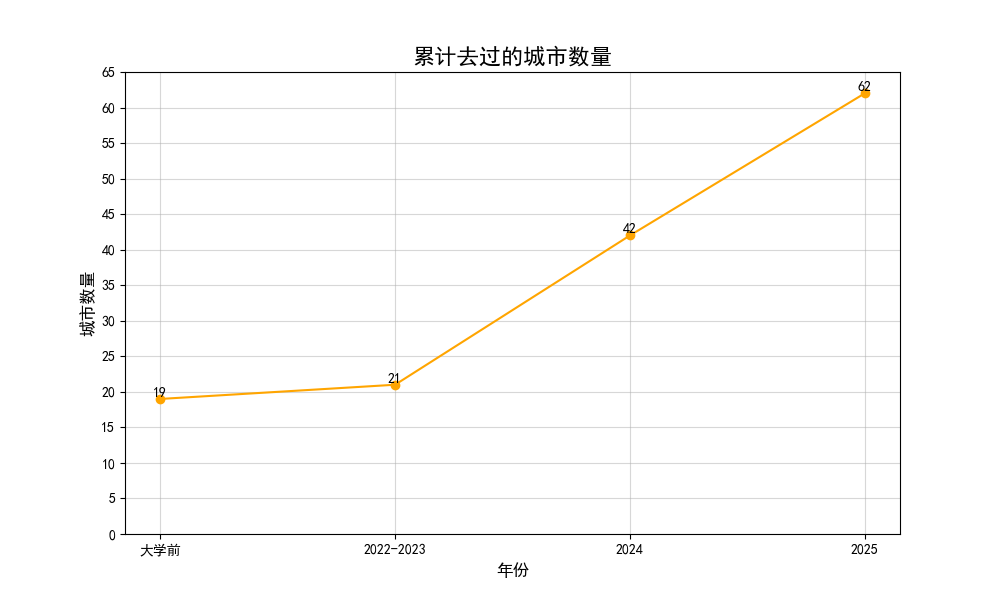
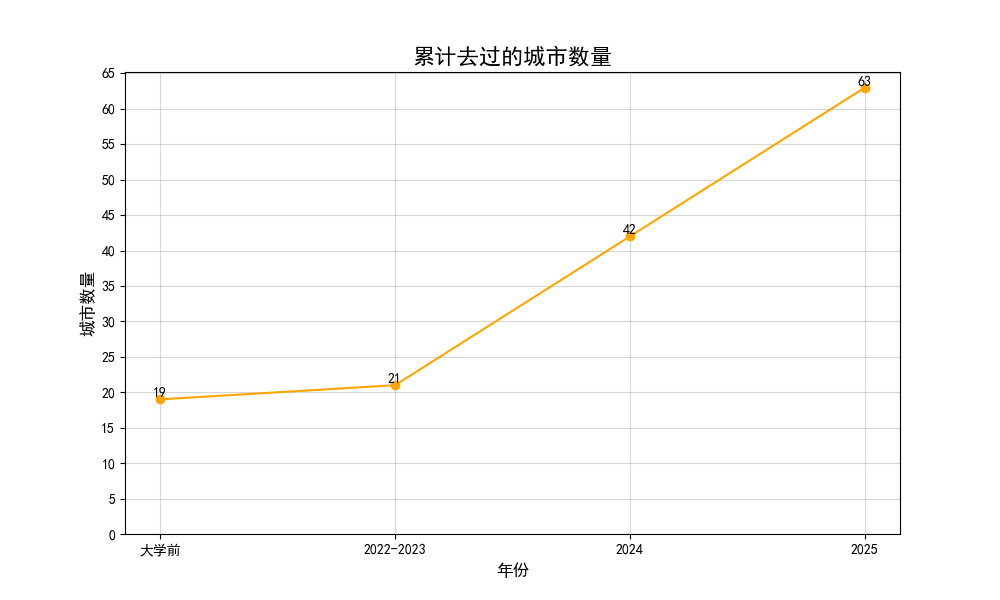
commit

diff --git a/draw.py b/draw.py
@@ -7,8 +7,8 @@ rcParams['axes.unicode_minus'] = False   # 解决负号显示问题
 
 # 数据
 years = ["大学前", "2022-2023", "2024", "2025"]
-new_cities = [19, 2, 21, 20]  # 新到的城市
-cumulative_cities = [19, 21, 42, 62]  # 累计去过的城市
+new_cities = [19, 2, 21, 21]  # 新到的城市
+cumulative_cities = [19, 21, 42, 63]  # 累计去过的城市
 
 # 创建图形并绘制新到的城市折线图
 plt.figure(figsize=(10, 6))

diff --git a/source/_posts/行旅杂记.md b/source/_posts/行旅杂记.md
@@ -114,7 +114,9 @@ date: 2024-11-15 00:00:00
 
 11月22日-23日，到天津观看脱口秀，顺道在天津一游，详见[《天津初探》](../ec8e/)。
 
-至此，共计去过18个省级行政区，62个城市（含省直辖县级行政区，不含普通县级市）：
+12月6日去参观雄安新区，详见[《雄安印象》](../674c/)。
+
+至此，共计去过18个省级行政区，63个城市（含省直辖县级行政区，不含普通县级市）：
 - 省
   - 广东（15/21）：湛江、广州、茂名、东莞、河源、惠州、阳江、江门、佛山、中山、珠海、韶关、揭阳、潮州、深圳
   - 贵州（5/9）：贵阳、黔南、黔东南、安顺、铜仁
@@ -129,7 +131,7 @@ date: 2024-11-15 00:00:00
   - 河南（6/18）：洛阳、郑州、周口、漯河、驻马店、信阳
   - 山东（1/16）：枣庄
   - 福建（2/9）：福州、龙岩
-  - 河北（1/11）：承德
+  - 河北（2/11）：承德、保定
 - 直辖市
   - 北京、上海、天津
 - 自治区
@@ -227,8 +229,10 @@ date: 2024-11-15 00:00:00
 ||古北口|清河|S502|136|
 ||北京南|天津|C2567|120|
 ||天津西|北京南|C2624|122|
+|2025.12|北京西|雄安|C2705|103|
+||白洋淀|北京丰台|C128|95|
 
-- 小计：86次（普铁18次，高铁/动车68次），34361km（普铁10459km，高铁/动车23902km），78个车站，43个城市
+- 小计：88次（普铁18次，高铁/动车70次），34559km（普铁10459km，高铁/动车24100km），80个车站，44个城市
 
 <figure style="text-align: center;"> <img src="https://s3.bmp.ovh/imgs/2025/11/07/76becc2b0bfcc12f.jpg" alt="铁路线路" style="display: block; margin-left: auto; margin-right: auto;width: 100%;"></figure>
 
@@ -278,6 +282,7 @@ date: 2024-11-15 00:00:00
 |信阳|信阳、信阳东|
 |孝感|孝感北、孝感东|
 |天津|天津、天津西|
+|保定|雄安、白洋淀|
 
 航班记录如下[^19]：
 | 时间       | 出发地         | 目的地         | 航班号| 机型|里程（km） |

diff --git a/source/_posts/雄安印象.md b/source/_posts/雄安印象.md
@@ -1,0 +1,7 @@
+---
+title: 雄安印象
+tags: 行走足迹
+categories: 游记
+abbrlink: 674c
+date: 2025-12-07 00:00:00
+---

diff --git a/renew.md b/renew.md
@@ -525,3 +525,6 @@
 12.2
    1. 北京行迹
    2. 天津初探
+
+12.3 
+   1. 加雄安新区
